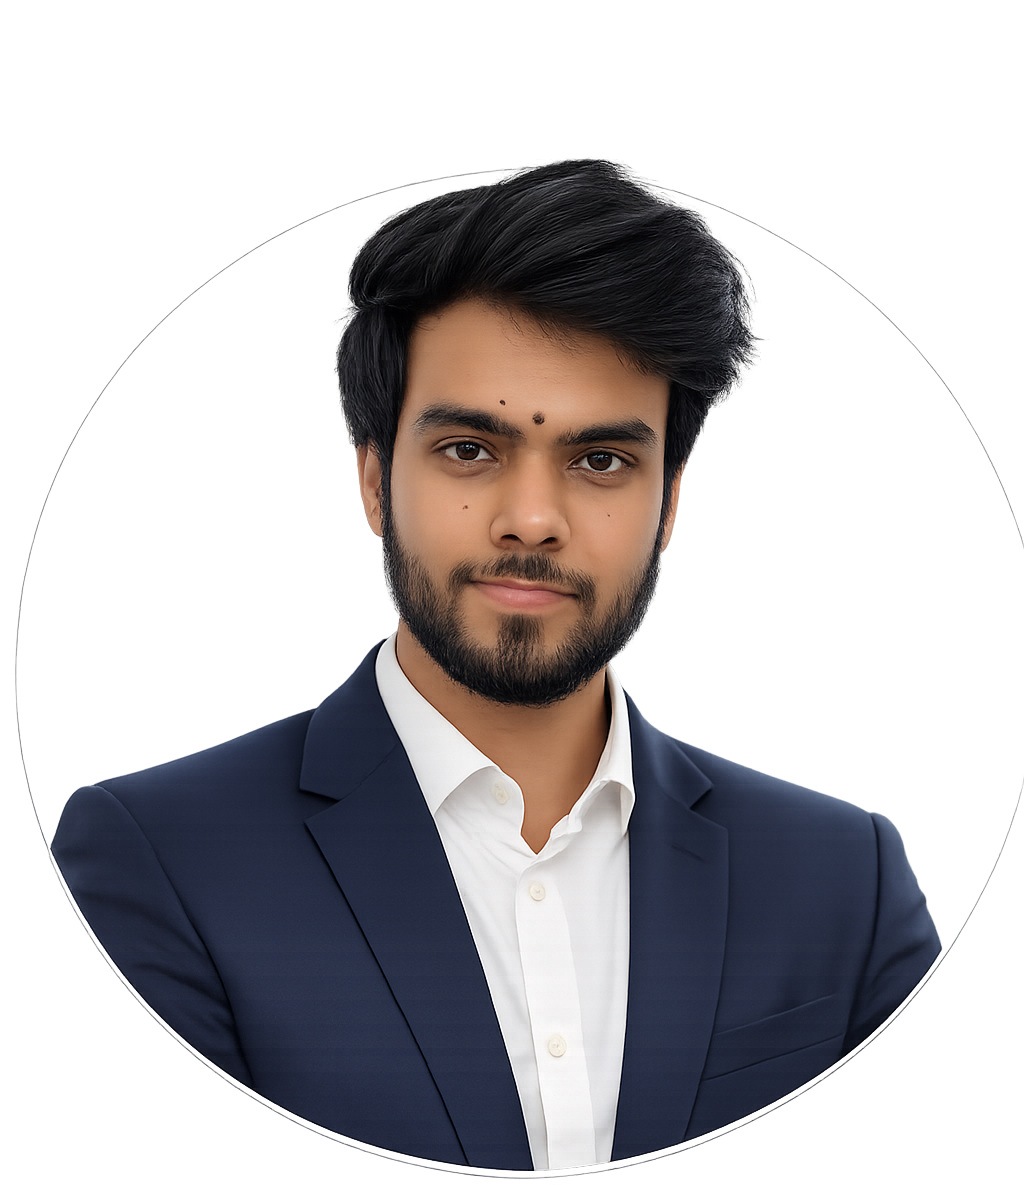
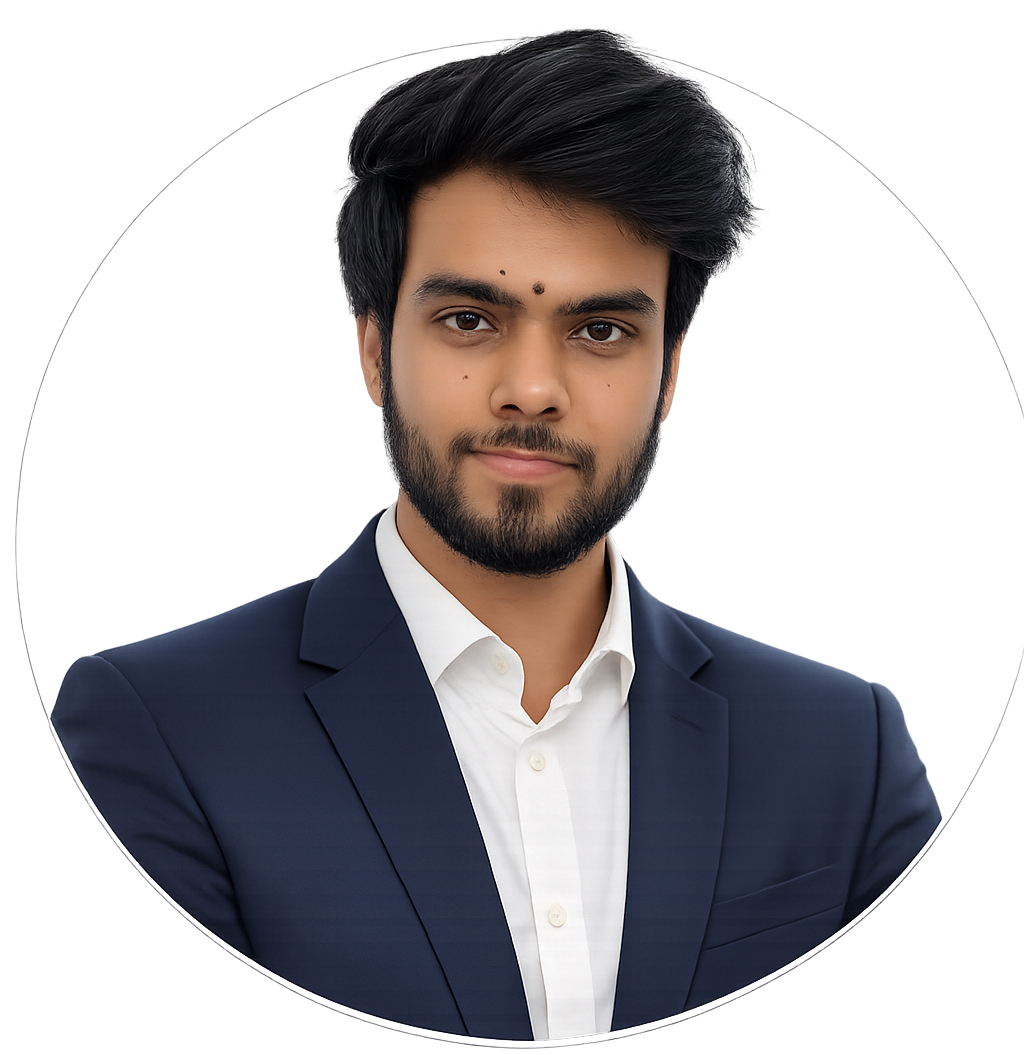
Photo edit

diff --git a/frontend/src/components/layout/Footer.tsx b/frontend/src/components/layout/Footer.tsx
@@ -7,7 +7,7 @@ export default function Footer() {
     <footer className="relative z-10 border-t border-white/5 bg-dark-navy/60 backdrop-blur-md py-6 sm:py-8 px-4 sm:px-6 lg:px-8">
       <div className="max-w-7xl mx-auto flex flex-col sm:flex-row items-center justify-between gap-4 text-xs text-text-secondary font-[family-name:var(--font-orbitron)] tracking-wider">
         <div className="text-center sm:text-left">
-          Copyright Manish Kumar 2026
+          © 2026 Manish Kumar
         </div>
         <div className="flex flex-wrap items-center justify-center gap-4">
           <a href="#" className="hover:text-accent-cyan transition-colors">Privacy</a>
